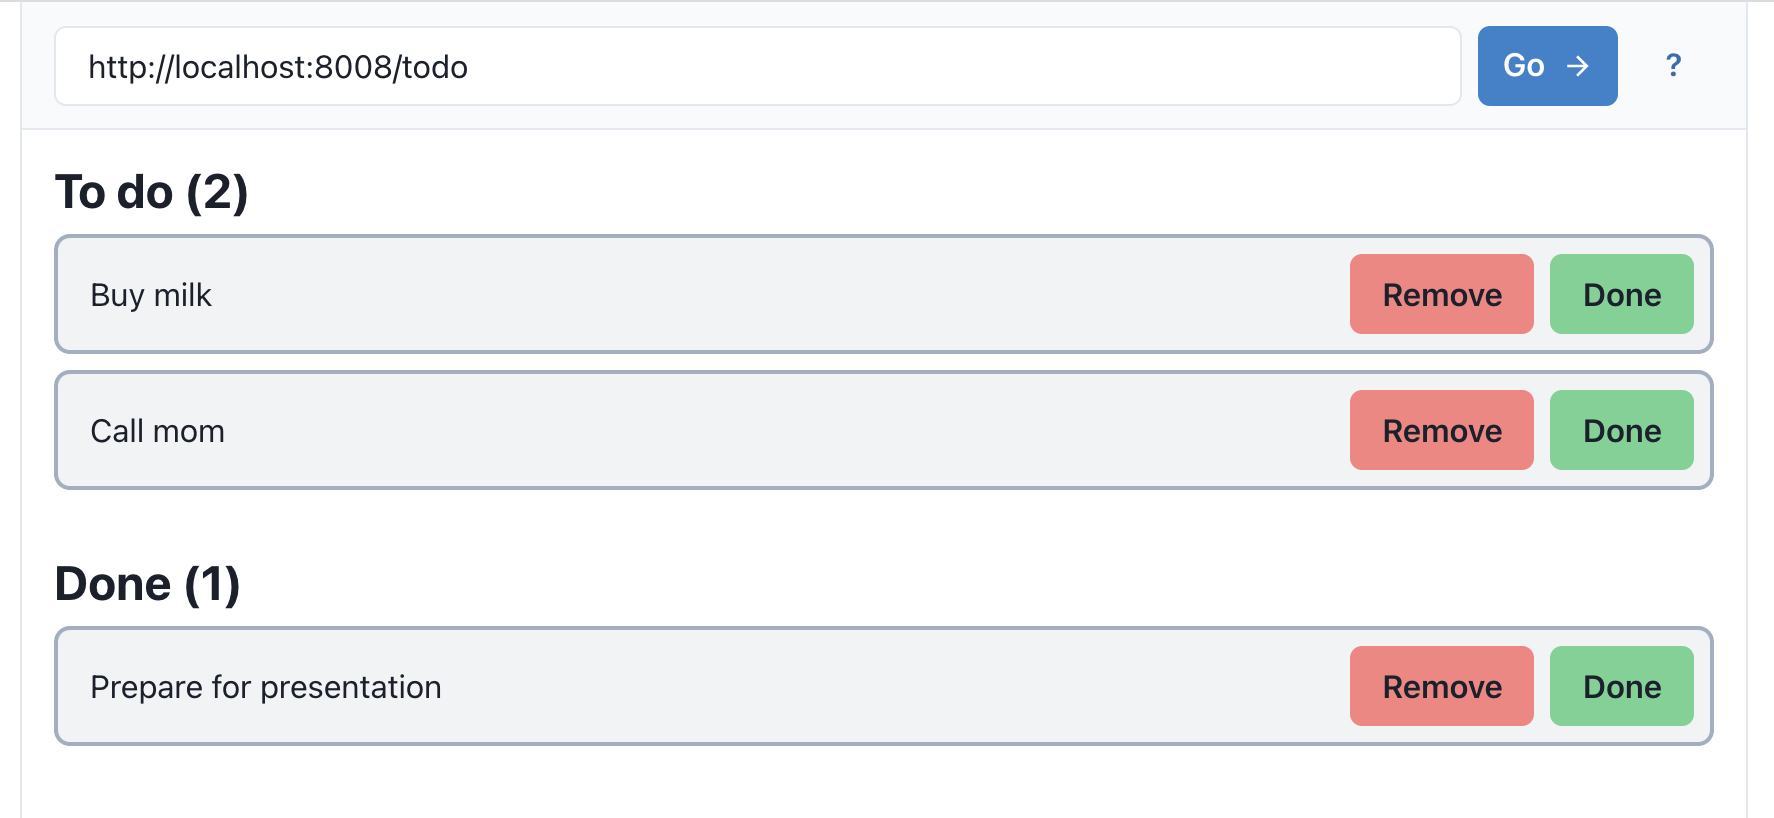
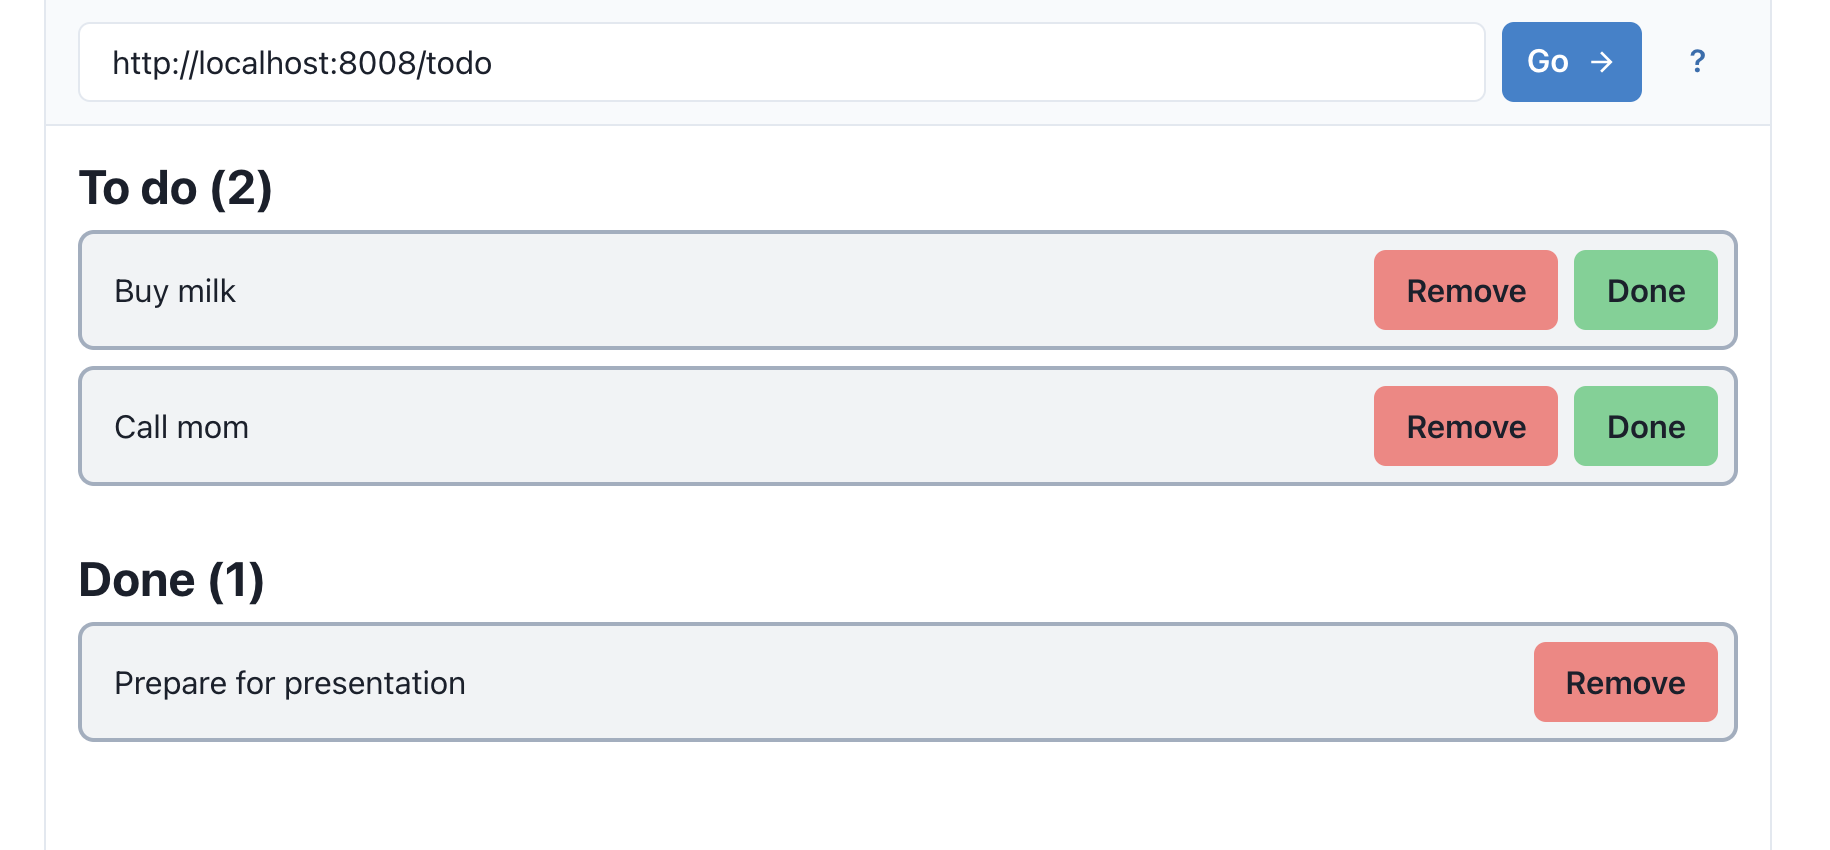
Updates from Overleaf

diff --git a/thesis/paper/sections/3_solution/intertextUIDL.tex b/thesis/paper/sections/3_solution/intertextUIDL.tex
@@ -2,11 +2,9 @@
 
 \section{Intertext UIDL} \label{intertextUIDL}
 
-Intertext UIDL (IUIDL) is an XML-based markup language that can be used to describe user interfaces. It features a layout system and UI components that could be used together as building blocks to put together a user interface. IUIDL is meant to be served from a generic backend, assembled on the backend based on the application logic. It is designed to be unopinionated, as it does not restrict how you assemble them or where you serve them from. For instance, below is an example Todo list. The Todo items are served from a Node.js server that uses Express.js framework, as it can be seen in Figure \ref{fig:todos_js}. The endpoint \textit{/todo} passes the Todo items to the Handlebar template
+Intertext UIDL (IUIDL) is an XML-based markup language that can be used to describe user interfaces. It features a layout system and UI components that could be used as building blocks to put together a user interface. IUIDL is meant to be served from a generic backend, assembled on the backend based on the application logic. It is designed to be unopinionated, as it doesn't restrict how you assemble it or serve it, or where you serve it from. For instance, below is an example To-do list UI served in IUIDL from a Node.js server that uses Express.js framework, as it can be seen in Figure \ref{fig:todos_js}. Once hit, the endpoint \textit{/todo} passes the To-do item data to a template file which uses Handlebar as a template engine, and it renders the UI in IUIDL format. The output XML is served from the endpoint.
 
-serves the render output of the template at 
-
-\begin{figure}[H]
+\begin{figure}
 \begin{minipage}{\linewidth}
 \begin{lstlisting}[language=javascript]
 router.get('/todo', function(req, res, next) {
@@ -37,10 +35,9 @@ router.get('/todo', function(req, res, next) {
 \label{fig:todos_js}%
 \end{figure}
 
-
-\begin{figure}[H]
+\begin{figure}
 \begin{minipage}{\linewidth}
-\begin{lstlisting}[language=html]
+\begin{lstlisting}[language=xml]
 <h3>To do ({{ itemsToDo.length }})</h3>
 
 {{#each itemsToDo}}
@@ -58,35 +55,119 @@ router.get('/todo', function(req, res, next) {
   <block intent="default" flexDirection="row" alignItems="center" paddingLeft="4">
     <text flexGrow="1">{{this.title}}</text>
     <button intent="error">Remove</button>
-    <button intent="success" marginLeft="2">Done</button>
   </block>
 {{/each}}
 \end{lstlisting}
 \end{minipage}
-\caption{Handlebars template that renders TODO items in IUIDL format}%
+\caption{Handlebars template that renders To-do items in IUIDL format}%
 \label{fig:todos_template}%
 \end{figure}
 
-
-\begin{figure}[H]
+\begin{figure}
   \centering
   \includegraphics[width=13cm]{thesis/paper/images/todos.png}
   \caption{IUIDL served from the endpoint at Figure \ref{fig:todos_js} rendered on Intertext web client}%
   \label{fig:todos_output}%
 \end{figure}
 
+\subsection{Styling}
+
+IUIDL is agnostic of the styling. There are several \textit{intent}'s that components can accept, which renders the component most appropriately based on its use-case. For instance, the "Remove" buttons in Figure \ref{fig:todos_output} as can be seen is red, and "Done" button is green. That is because \textit{error} intent was given to the Remove button and \textit{success} was given to the Done button. However this configuration, there is no way to specify how the components look like in particular. The main idea is customisability, Intertext provides themes that users can choose from, and for each theme UI components looks and feels differently. As of this thesis, only light and dark themes are available for the web version of Intertext (the dark version of the Todo list UI can be seen on Figure \ref{fig:todos_output_dark}), but as mentioned in the \nameref{futureWork} section, more themes will be made available. Moreover, users will also be able to create custom themes that matches exactly to their liking.
+
+\begin{figure}
+  \centering
+  \includegraphics[width=13cm]{thesis/paper/images/todos_dark.png}
+  \caption{Dark version of the to-do list UI from Figure \ref{fig:todos_output} rendered on Intertext web client}%
+  \label{fig:todos_output_dark}%
+\end{figure}
+
+\subsection{Syntax}
+
+As explained in detail in the \nameref{implementation} section, IUIDL gets converted from XML syntax to JSON syntax. However, the conversion to JSON is only an implementation detail that takes place during the rendering phase, and developers need not to be aware. XML was chosen at the cost of creating an additional transpilation layer, to achieve optimum developer friendliness. 
+
+When it comes to building UI's, XML and XML-like languages are very common. The main benefit of such languages are that they are easy to read and write, while at the same time they are easy to parse and process as data. IUIDL is meant to be served from a backend, but developers still need to write IUIDL code by hand on the server side. JSON is far from being practical to write in large by hand. The difference could be observed in Figure \ref{fig:syntax_json} and \ref{fig:syntax_xml}, the IUIDL code for a custom 404 page could be seen in both XML and JSON syntax.
+
+\begin{figure}
+\begin{minipage}{\linewidth}
+\begin{lstlisting}[language=xml]
+<block intent="error">
+  <h3 intent="error">Not Found</h3>
+  <collapse>
+    <collapse.handle>
+      <text intent="error">
+        Show Details
+      </text>
+    </collapse.handle>
+    <p intent="error">... stack trace here ...</p>
+  </collapse>
+</block>
+\end{lstlisting}
+\end{minipage}
+\caption{The XML representation of the 404 page}%
+\label{fig:syntax_xml}%
+\end{figure}
+
+\begin{figure}
+\begin{minipage}{\linewidth}
+\begin{lstlisting}[language=json]
+[
+    {
+        "block": [
+            {
+                "h3": "Not Found",
+                "intent": "error"
+            },
+            {
+                "collapse": [
+                    {
+                        "p": "... stack trace here ...",
+                        "intent": "error"
+                    }
+                ],
+                "handle": [
+                    {
+                        "text": "\n        Show Details\n      ",
+                        "intent": "error"
+                    }
+                ]
+            }
+        ],
+        "intent": "error"
+    }
+]
+\end{lstlisting}
+\end{minipage}
+\caption{The JSON representation of the 404 page}%
+\label{fig:syntax_json}%
+\end{figure}
 
 
-IUIDL is agnostic of the styling. 
+One issue that raised from XML syntax was the inability to assign complex children to attributes of a specific tag. As it can be seem from the JSON representation of the 404 page at Figure \ref{fig:syntax_json}, the component \textit{collapse} requires two sets of children: one for it's direct children (specified as \textit{collapse}), and one for the children to be rendered in its handle (specified as \textit{handle}). Both \textit{collapse} and \textit{handle} properties takes other UI components as their children. However, XML syntax only allows attribute values of a tag to be of type string. In order to solve this problem, we extended XML to create a special syntax to handle such cases. We introduced a special tag name convention: when an XML tree is placed as the children of a component with the tag name being the parent components name concatenated with an attribute name joined together with a dot ("."), its gets interpreted as an attribute of the parent, with its value being the children of that XML tree (Figure \ref{fig:complex_attributes}).
+
+\begin{figure}
+\begin{minipage}{\linewidth}
+\begin{lstlisting}[language=xml]
+<parent>
+  <parent.complex>
+    <text>
+      This is under 'complex' attribute of parent
+    </text>
+  </parent.complex>
+  <text>
+    This is the real children of parent
+  </text>
+</parent>
+\end{lstlisting}
+\end{minipage}
+\caption{Complex attributes}%
+\label{fig:complex_attributes}%
+\end{figure}
 
 
+\subsection{Terminology}
 
-Below is an example IUIDL code that generates 
+Last thing to mention in this section is the terminology used in IUIDL. IUIDL syntax is shared between multiple devices and environments, which includes desktop interfaces as well as touch interfaces, non-graphical user interfaces and more. As mentioned in the \nameref{futureWork} section, as more Intertext clients gets released, this variety will increase further. This brings up a problem with the terminology. For instance, the "click" that normally would make sense for a desktop environment does not make sense for touch interfaces, as the interaction for a touch screen interface would be "touch" or "tap". In the case of a command line, the primary interaction is focusing on an item and hitting the "enter" key. 
 
+Our immediate reaction to solve this problem was to create custom jargon that is agnostic of device / interaction type, just like IUIDL is by nature, and find terms for every component / interaction that applies globally. For instance, instead of "button" we used "callToAction", and instead of "onClick" we used "onPrimaryInteraction". However we later abandoned this approach for the sake of developer friendliness. As we custom-named components and their respective actions, we realised that their names were getting very unusual and non-familiar, to a point where it was very difficult to even recognise them. Should we have chosen the global naming convention, we would have introduced a steep learning curve; developers would have needed to get familiar with a long list of terms that they have never heard of before, and they would strictly need to follow the documentation while building Intertext applications.
 
-
-% - intertext uidl
-%   - terminologies? (platform-specific etc.)
-%   - limitations? (<x.y>)
-%   - json? xml?
- 
+Instead, we decided to adopt the terminology for desktop / web environments. The rationale behind this decision was that these environments have been around for a very long time, that the terms used to build desktop applications and web applications has a strong recognition among many developers. Also, terms used for desktop environments were mostly generic enough that it was easy to represent on other environments. For instance, a "button" is a component to be interacted with that performs an action, and "click" is the method of primary interaction with that component. We can easily take this description and replicate on any environment to create an optimised version of "button" taking the limitations of the host platforms in mind.

diff --git a/thesis/paper/sections/3_solution/designPrinciples.tex b/thesis/paper/sections/3_solution/designPrinciples.tex
@@ -28,7 +28,7 @@ Intertext adopts a component based approach, we provide a set of components for 
 
 \begin{figure}
 \begin{minipage}{\linewidth}
-\begin{lstlisting}[language=html]
+\begin{lstlisting}[language=xml]
 <h3>Buttons</h3>
 
 <grid cols="[1,1]">
@@ -62,7 +62,7 @@ However other than properties that components accepts, they cannot be modified o
 
 Consistency is one of the most important benefit that this principle enables. A standard look and feel for components helps users to never get disoriented across applications, and recognise similar patterns easily. Another benefit is customisability, it is only possible to create one-size-fits-all themes that applies to every component in every application when all the applications uses components that are built in the same way. Another thing that comes to mind is accessibility. We established in section \ref{problemStatement} that accessibility is a big issue that not all developers choose to address. This principle allows us to take this responsibility from the developers hands by providing accessible components as building blocks. 
 
-\begin{figure}[H]
+\begin{figure}
   \centering
   \includegraphics[width=13cm]{thesis/paper/images/pressable.png}
   \caption{Diagram that shows the implementation of Pressable component in React Native (reactnative.dev/docs/pressable)}%
@@ -77,4 +77,4 @@ We designed IUIDL to be a generic markup language, agnostic of any platform or i
 
 \hl{TODO Add screenshots that shows similarities between the web version and the cli version}
 
-Also, this approach allows existing Intertext applications to adopt to new Intertext clients as they are built in the future. At the time of this paper, Intertext web client and command-line client is ready, but as mentioned in the \hl{TODO: Future Work} section, more Intertext clients are on the way. Thanks to this principle, Intertext clients will have immediate availability for the upcoming Intertext clients.
+Also, this approach allows existing Intertext applications to adopt to new Intertext clients as they are built in the future. At the time of this paper, Intertext web client and command-line client is ready, but as mentioned in the \nameref{futureWork} section, more Intertext clients are on the way. Thanks to this principle, Intertext clients will have immediate availability for the upcoming Intertext clients.

diff --git a/thesis/paper/utils/json-lang.tex b/thesis/paper/utils/json-lang.tex
@@ -1,0 +1,31 @@
+\definecolor{delim}{RGB}{20,105,176}
+\definecolor{numb}{RGB}{106, 109, 32}
+\definecolor{string}{rgb}{0.64,0.08,0.08}
+
+\lstdefinelanguage{json}{
+    frame=single,
+    rulecolor=\color{black},
+    showspaces=false,
+    showtabs=false,
+    breaklines=true,
+    breakatwhitespace=true,
+    basicstyle=\ttfamily\small,
+    upquote=true,
+    morestring=[b]",
+    stringstyle=\color{string},
+    literate=
+     *{0}{{{\color{numb}0}}}{1}
+      {1}{{{\color{numb}1}}}{1}
+      {2}{{{\color{numb}2}}}{1}
+      {3}{{{\color{numb}3}}}{1}
+      {4}{{{\color{numb}4}}}{1}
+      {5}{{{\color{numb}5}}}{1}
+      {6}{{{\color{numb}6}}}{1}
+      {7}{{{\color{numb}7}}}{1}
+      {8}{{{\color{numb}8}}}{1}
+      {9}{{{\color{numb}9}}}{1}
+      {\{}{{{\color{delim}{\{}}}}{1}
+      {\}}{{{\color{delim}{\}}}}}{1}
+      {[}{{{\color{delim}{[}}}}{1}
+      {]}{{{\color{delim}{]}}}}{1},
+}

diff --git a/thesis/paper/utils/xml-lang.tex b/thesis/paper/utils/xml-lang.tex
@@ -1,0 +1,24 @@
+\usepackage{listings}
+
+\usepackage{color}
+\definecolor{gray}{rgb}{0.4,0.4,0.4}
+\definecolor{darkblue}{rgb}{0.0,0.0,0.6}
+\definecolor{cyan}{rgb}{0.0,0.6,0.6}
+
+\lstset{
+  basicstyle=\ttfamily,
+  columns=fullflexible,
+  showstringspaces=false,
+  commentstyle=\color{gray}\upshape
+}
+
+\lstdefinelanguage{XML}
+{
+  morestring=[b]",
+  morestring=[s]{>}{<},
+  morecomment=[s]{<?}{?>},
+  stringstyle=\color{string},
+  identifierstyle=\color{darkblue},
+  keywordstyle=\color{cyan},
+  morekeywords={intent, top, bottom, left, right, margin, marginTop, marginBottom, marginLeft, marginRight, padding, paddingTop, paddingBottom, paddingLeft, paddingRight, width, minWidth, maxWidth, height, minHeight, maxHeight, position, alignContent, alignItems, alignSelf, flexDirection, flexWrap, flexGrow, flexShrink, flexBasis, justifyContent, disabled, cols}
+}

diff --git a/thesis/paper/utils/javascript-lang.tex b/thesis/paper/utils/javascript-lang.tex
@@ -1,0 +1,22 @@
+% Taken from Lena Herrmann at 
+% http://lenaherrmann.net/2010/05/20/javascript-syntax-highlighting-in-the-latex-listings-package
+
+
+\definecolor{lightgray}{rgb}{.9,.9,.9}
+\definecolor{darkgray}{rgb}{.4,.4,.4}
+\definecolor{purple}{rgb}{0.65, 0.12, 0.82}
+
+\lstdefinelanguage{javascript}{
+  keywords={typeof, new, true, false, catch, function, return, null, catch, switch, var, if, in, while, do, else, case, break},
+  keywordstyle=\color{blue}\bfseries,
+  ndkeywords={class, export, boolean, throw, implements, import, this},
+  ndkeywordstyle=\color{darkgray}\bfseries,
+  identifierstyle=\color{black},
+  sensitive=false,
+  comment=[l]{//},
+  morecomment=[s]{/*}{*/},
+  commentstyle=\color{purple}\ttfamily,
+  stringstyle=\color{string}\ttfamily,
+  morestring=[b]',
+  morestring=[b]"
+}

diff --git a/thesis/paper/thesis.tex b/thesis/paper/thesis.tex
@@ -13,6 +13,10 @@
 \usepackage{float}
 \usepackage{template/cisa}
 
+\input{thesis/paper/utils/json-lang}
+\input{thesis/paper/utils/xml-lang}
+\input{thesis/paper/utils/javascript-lang}
+
 \author{Oguz Gelal}
 \level{ma2}
 \title{Intertext}

diff --git a/thesis/paper/sections/7_discussion/index.tex b/thesis/paper/sections/7_discussion/index.tex
@@ -2,6 +2,8 @@
 
 \chapter{Discussion} \label{discussion}
 
+\input{sections/7_discussion/futureWork}
+
 - Sum up main contributions
 - How you address the research questions
 - Future work

diff --git a/thesis/paper/sections/7_discussion/futureWork.tex b/thesis/paper/sections/7_discussion/futureWork.tex
@@ -1,0 +1,7 @@
+% !TEX root = ../../thesis.tex
+
+\section{Future Work} \label{futureWork}
+
+- more intertext clients
+- more themes
+- user-made themes
